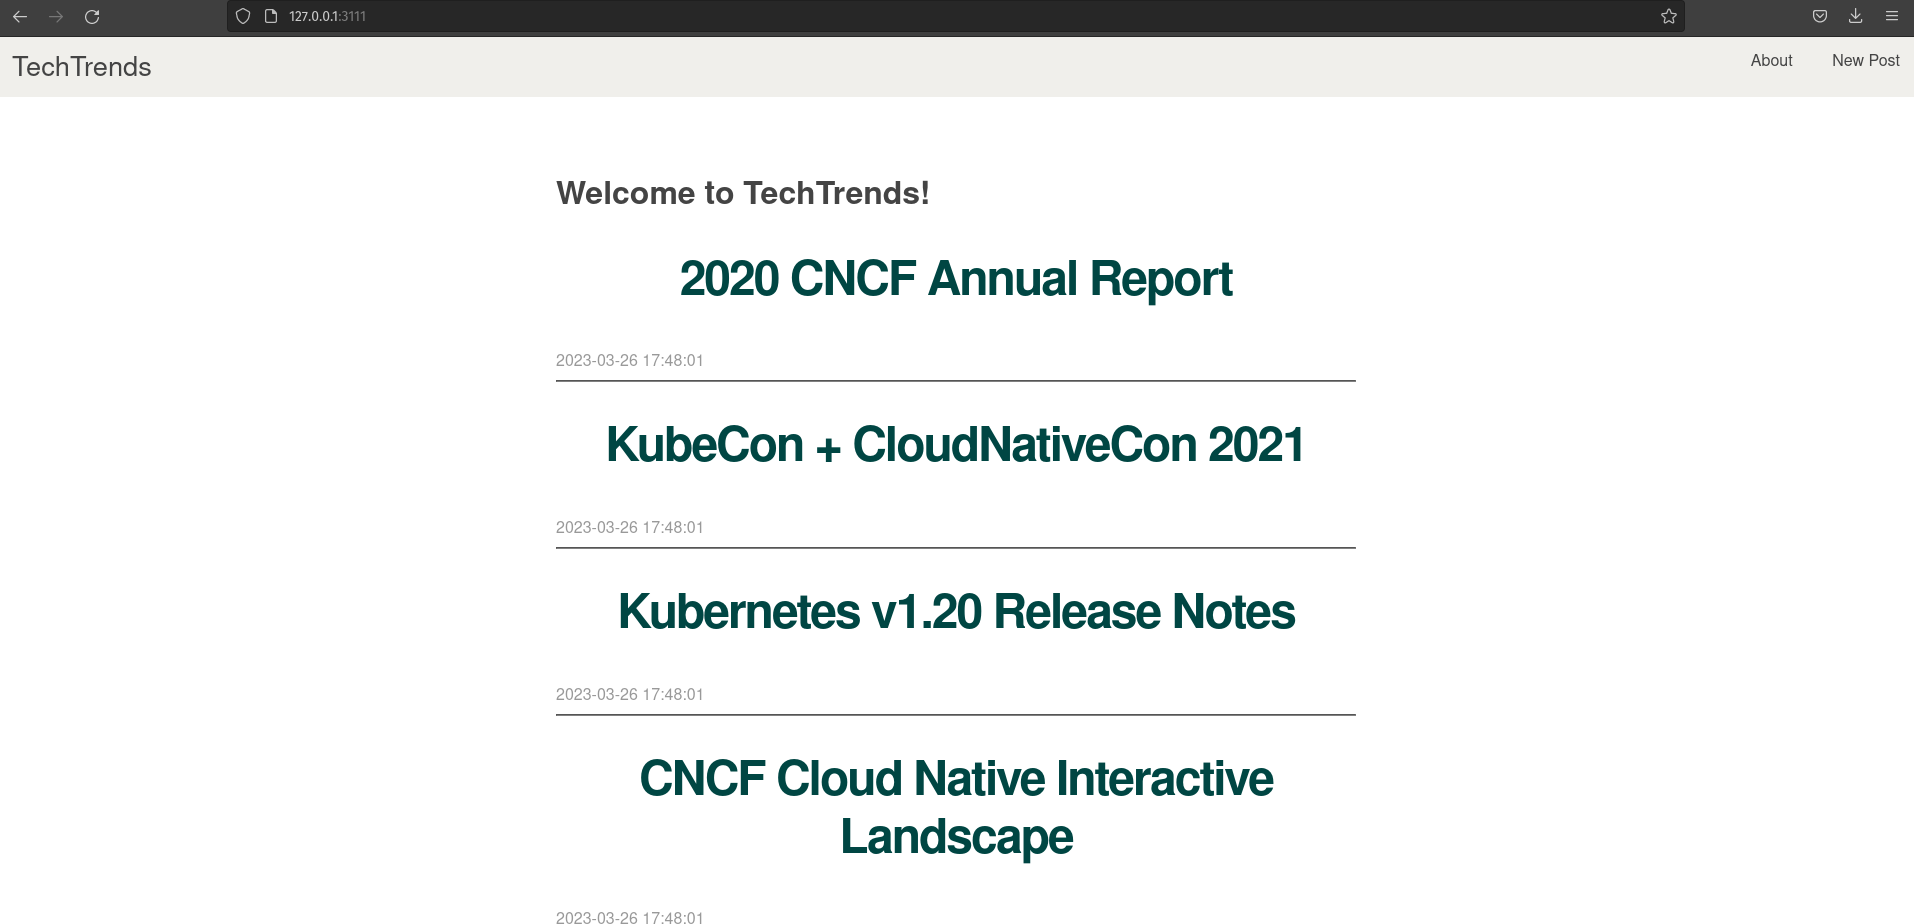
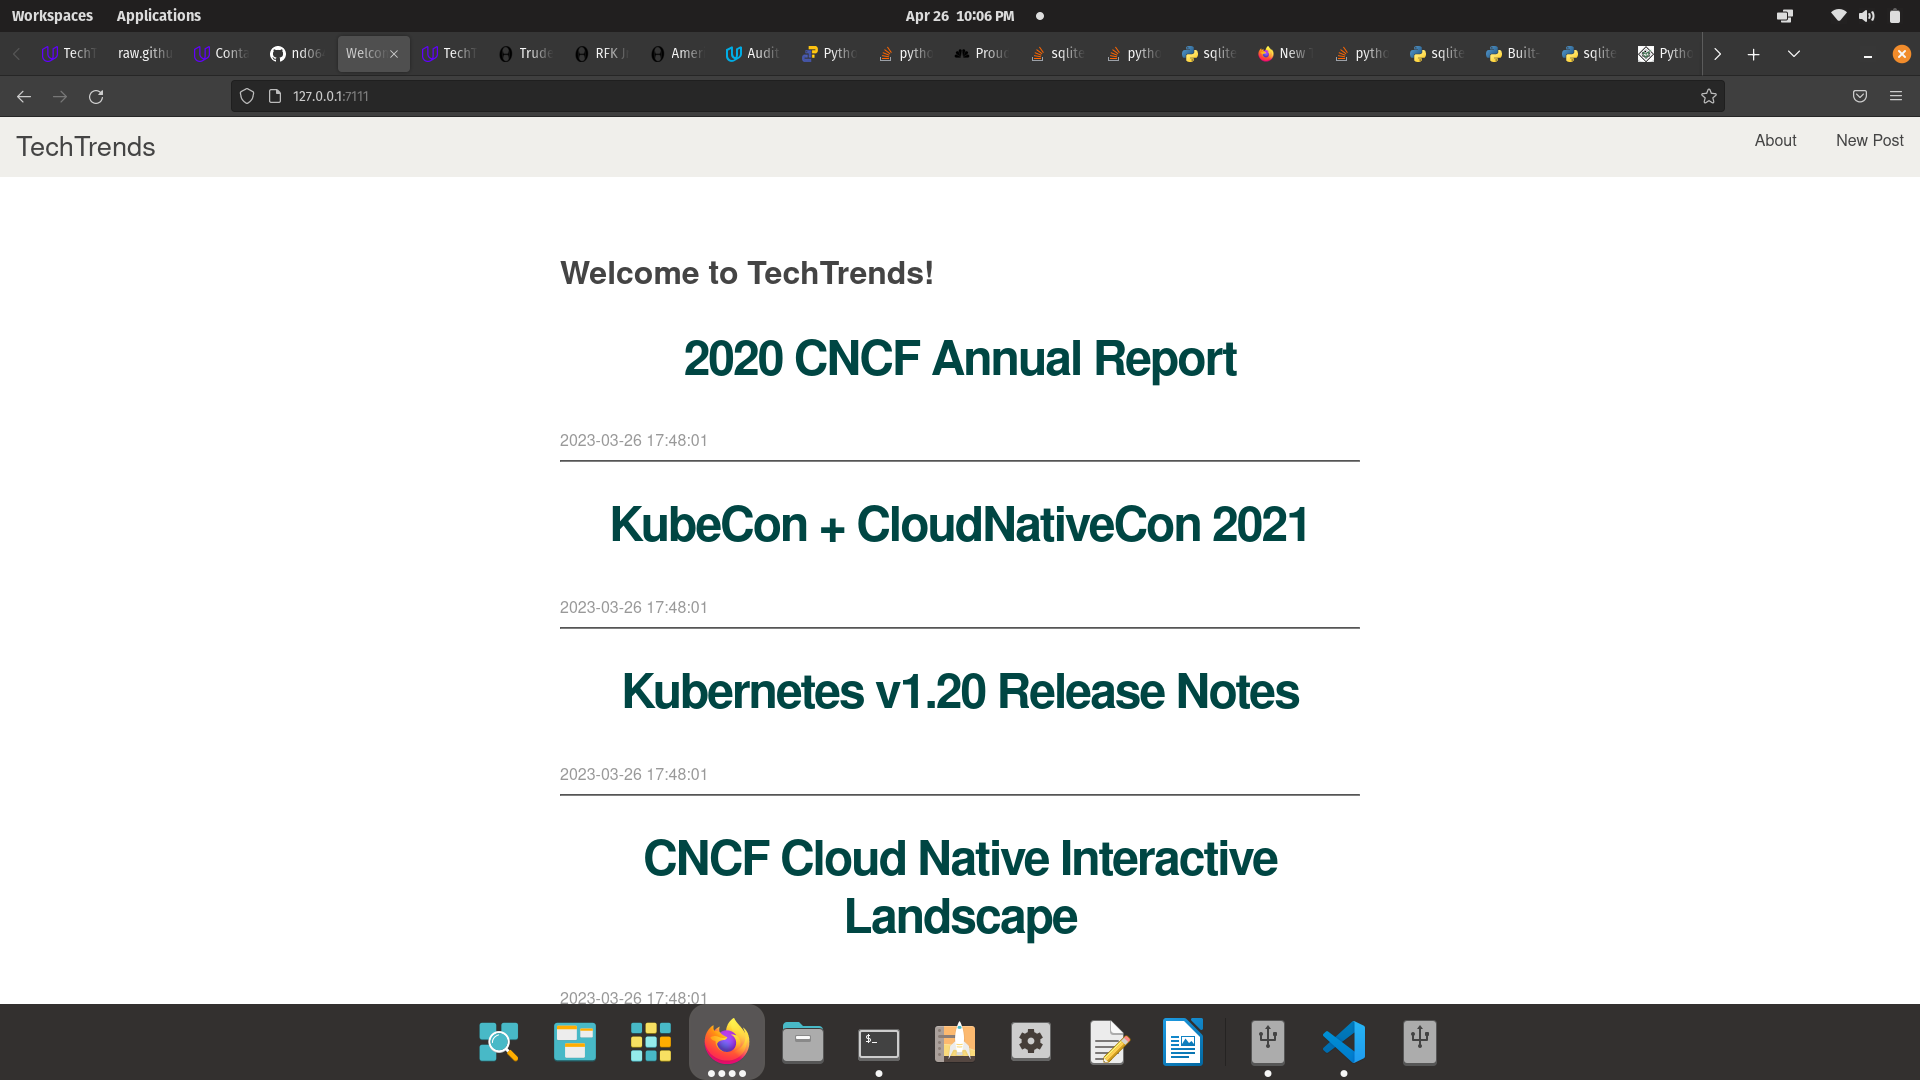
Add docker_commands and docker-run-local files

Changed region(s): [[0.0, 0.5455, 1.0, 1.0], [0.0, 0.0, 1.0, 0.1515], [0.2774, 0.1818, 0.709, 0.5152]]

diff --git a/app.py b/app.py
@@ -117,4 +117,4 @@ def create():
 # start the application on port 3111
 if __name__ == "__main__":
    logging.basicConfig(filename='app.log',level=logging.INFO)
-   app.run(host='0.0.0.0', port='3111')
+   app.run(host='0.0.0.0', port='7111')
